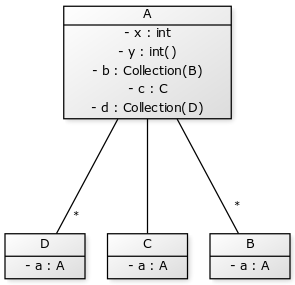
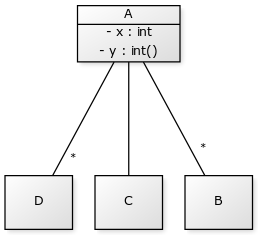
Modified code to get rid of unnecessary/unwanted fields representation.

Changed region(s): [[0.0, 0.0, 0.9922, 0.983], [0.7752, 0.5957, 0.8062, 0.6255]]

diff --git a/src/CompilationUnitParser.java b/src/CompilationUnitParser.java
@@ -117,7 +117,11 @@ public class CompilationUnitParser {
 
         String scope = convertAccessModifierToSym(bd.toStringWithoutComments().substring(0, bd.toStringWithoutComments().indexOf(" ")));
         String fieldClassName = convert2Parenthesis(fd.getChildrenNodes().get(0).toString());
+        System.out.println("\n 1111 fieldClassName:  " + fieldClassName + "\n");
+
         String variableName = fd.getChildrenNodes().get(1).toString();
+        System.out.print("\n2222 fd.getChildrenNodes():    " + fd.getChildrenNodes() + "\n");
+        System.out.print("\n3333 variableName:    " + variableName + "\n");
 
         // i.e. private Collection<Observer> observers = new ArrayList<Observer>() ;
         if (variableName.contains("="))
@@ -144,8 +148,10 @@ public class CompilationUnitParser {
             classRelationMap.put(this.className + "-" + relationClass, relation);
         }
 
-        if (scope == "+" || scope == "-")
+        if ((scope == "+" || scope == "-") && !mapIfInterface.containsKey(relationClass)) { //get rid of unnecessary fields representation
             fields += scope + " " + variableName + " : " + fieldClassName + "; ";
+            System.out.println("\n4444 fields: " + fields + "\n");
+        }
     }
 
 
